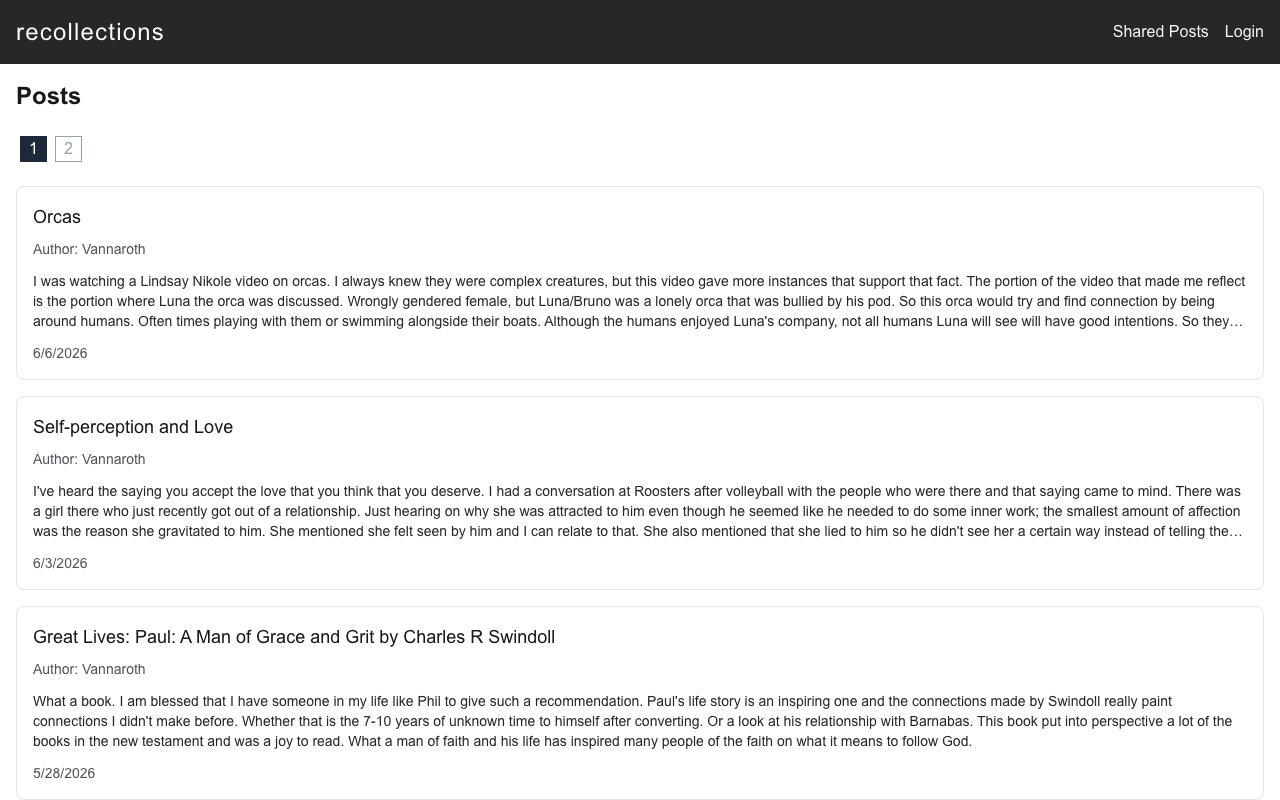
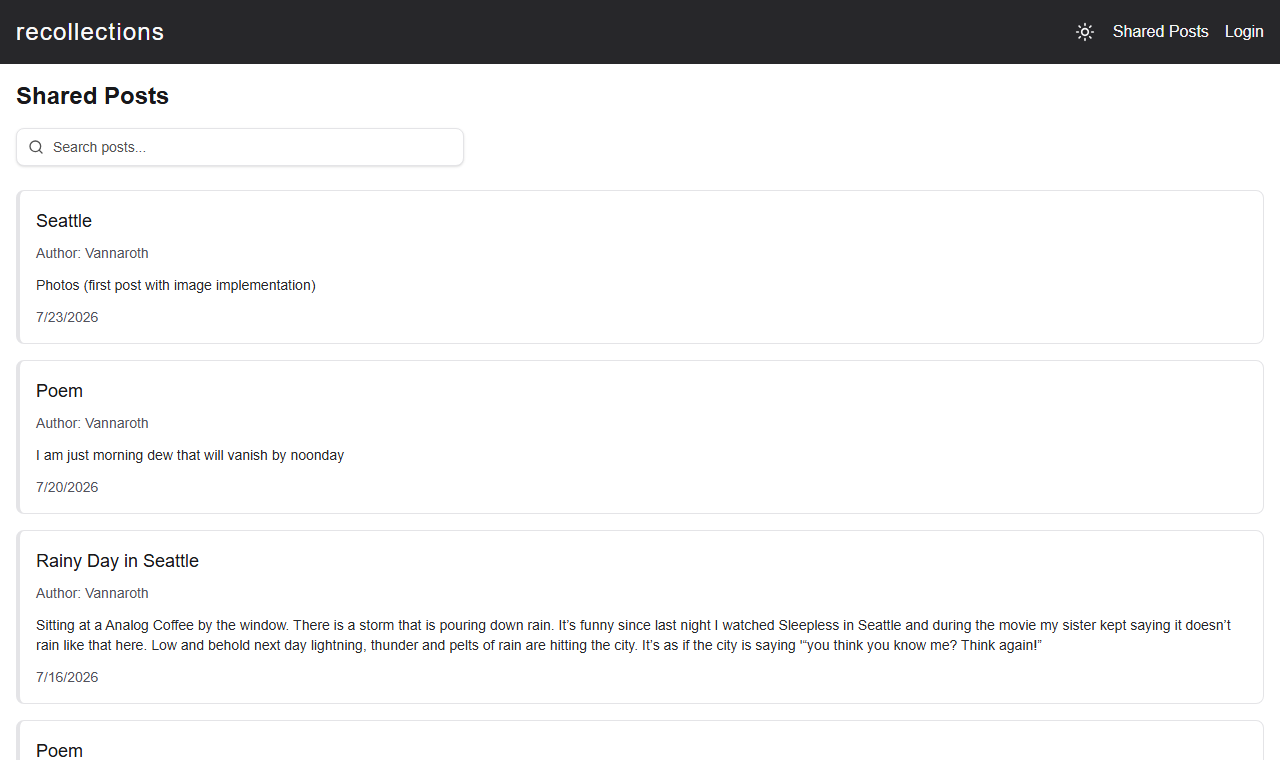
Readme update

Changed region(s): [[0.0, 0.4842, 1.0, 1.0], [0.0, 0.2421, 0.9688, 0.4539], [0.0, 0.0303, 1.0, 0.2118]]

diff --git a/README.md b/README.md
@@ -4,19 +4,24 @@ A personal blog and reflection journal I built while between jobs — partly to 
 
 Posts can be **public** (shared on the blog) or **private** (visible only to the author), so the same app works as both a public blog and a personal journal.
 
-Posts feedPost detail page
+![Posts feed](docs/screenshots/posts-list.png)
 
-**Live site:** [blog-kappa-beryl-77.vercel.app](https://blog-kappa-beryl-77.vercel.app)
+![Post detail page](docs/screenshots/post-detail.png)
+
+**Live site:** [vann-recollections.vercel.app](https://vann-recollections.vercel.app/)
 
 ## Features
 
 - **Email/password auth** via Neon Auth, with session-aware server components
 - **Post CRUD** — create, edit, and delete posts, with author-only authorization enforced server-side
 - **Public/private access levels** — private posts are filtered out of listings and fail closed on direct URL access
-- **Pagination** on both the public feed and the personal dashboard
+- **Rich text editing** with Tiptap, including inline image uploads stored on Vercel Blob
+- **Full-text search** across post titles and bodies, backed by Postgres (`tsvector` + GIN index, title-weighted ranking) rather than a naive substring scan
+- **Pagination** on both the public feed and the personal dashboard, including search results
 - **Previous/next post navigation** ordered by post date
-- **Form validation** shared between client and server with Zod schemas and React Hook Form
-- **Dark mode** styling throughout with Tailwind CSS
+- **Responsive navigation** — collapses to a mobile hamburger menu that auto-closes on outside touch/click
+- **Dark mode toggle** in the header, synced with OS preference on first visit and persisted across sessions
+- **Form validation** with shared Zod schemas, checked server-side in Server Actions
 - **Unit and component tests** with Jest and React Testing Library
 
 
@@ -27,10 +32,12 @@ Posts feedPost detail page
 | Layer      | Choice                                                                                 |
 | ---------- | -------------------------------------------------------------------------------------- |
 | Framework  | [Next.js 16](https://nextjs.org) (App Router, React Server Components, Server Actions) |
-| UI         | React 19, Tailwind CSS 4, Heroicons                                                    |
+| UI         | React 19, Tailwind CSS 4, Radix UI & Floating UI (editor dropdowns/popovers/tooltips)  |
 | Database   | [Neon](https://neon.tech) serverless Postgres, queried with tagged-template SQL        |
+| Search     | Postgres full-text search (`tsvector`/`tsquery`, GIN index, trigger-maintained)        |
+| Storage    | Vercel Blob (post images)                                                              |
 | Auth       | Neon Auth (`@neondatabase/auth`)                                                       |
-| Validation | Zod 4 + React Hook Form                                                                |
+| Validation | Zod 4 schemas, checked server-side inside Server Actions                              |
 | Testing    | Jest 30, React Testing Library                                                         |
 | Hosting    | Vercel, with Analytics and Speed Insights                                              |
 
@@ -42,9 +49,13 @@ Posts feedPost detail page
 A few decisions I made deliberately:
 
 - **Server-first data access.** All queries and mutations live in `lib/` and are marked `server-only`, so database code can never leak into a client bundle. Pages are async server components that fetch directly.
-- **Server Actions over API routes.** Mutations (`lib/posts/actions.ts`) are Server Actions that validate input with Zod, check the session, verify authorship, and then call the data layer — keeping authorization next to the mutation it protects.
+- **Server Actions over API routes, with two necessary exceptions.** Mutations (`lib/posts/actions.ts`) are Server Actions that validate input with Zod, check the session, verify authorship, and then call the data layer — keeping authorization next to the mutation it protects. Route Handlers exist only where a real URL is unavoidable: `/api/upload` (Tiptap's image upload needs a fetchable endpoint) and `/api/file` (serving private post images requires an access check before streaming the blob).
 - **Authorization at every entry point.** Listing queries filter by access level in SQL; the post detail and edit pages re-check access/authorship server-side, so private posts aren't reachable by URL guessing.
 - **Plain SQL over an ORM.** Queries use Neon's tagged-template driver directly. For an app this size I wanted to stay close to the SQL rather than learn an ORM's abstraction over it.
+- **Search and pagination live in the URL, not client state.** Both drive the same server-rendered query (`?q=`, `?page=`), so there's one data-fetching path, results are bookmarkable/shareable, and there's no separate client-side fetch/API route to keep in sync with the server-rendered list.
+- **Search runs in Postgres, not the app.** A trigger-maintained `tsvector` column plus a GIN index (`sql/add_search_vector.sql`) means matching is an indexed lookup, not an app-side scan that re-parses every post's content on every keystroke.
+
+![Full-text search](docs/screenshots/search.png)
 
 
 
@@ -53,9 +64,12 @@ A few decisions I made deliberately:
 ```
 app/          Routes (App Router): posts feed, post detail, create/edit, auth, dashboard
 ui/           Presentational components (PostCard, forms, header, ...)
+components/   Tiptap rich-text editor (vendored template) and landing-page effects
+hooks/        Shared client hooks (dark mode, throttling, editor helpers, ...)
 lib/          Data layer: SQL queries, server actions, auth helpers, db client
 schemas/      Zod schemas shared by forms and server actions
 type/         TypeScript row/input types for posts
+sql/          One-off SQL migrations run manually against Neon (no ORM/migration tool)
 __tests__/    Jest unit and component tests
 ```
 
@@ -69,16 +83,15 @@ You'll need Node 20+ and a [Neon](https://neon.tech) project with Neon Auth enab
   ```bash
    npm install
   ```
-2. Create a `.env` file with your Neon credentials (the connection string and Neon Auth keys from the Neon console):
+2. Create a `.env.local` file with your Neon credentials (the connection string and Neon Auth keys from the Neon console):
   ```bash
    DATABASE_URL=...
-   NEXT_PUBLIC_STACK_PROJECT_ID=...
-   NEXT_PUBLIC_STACK_PUBLISHABLE_CLIENT_KEY=...
-   STACK_SECRET_SERVER_KEY=...
    NEON_AUTH_BASE_URL=...
    NEON_AUTH_COOKIE_SECRET=...
+   BLOB_READ_WRITE_TOKEN=...
   ```
-3. Start the dev server:
+3. Run the SQL migrations in `sql/` against your database (via the Neon console's SQL editor or `psql`) to set up full-text search.
+4. Start the dev server:
   ```bash
    npm run dev
   ```
@@ -98,15 +111,19 @@ npm run test:coverage # with coverage report
 
 ## Roadmap
 
-**Now — rich text editing** *(in progress)*
+**Done — rich text & media**
 
 - [x] Tiptap editor in the post form, replacing the plain textarea
-- [x] Sanitize stored HTML and render it styled on the post detail page
+- [x] Store post content as structured Tiptap JSON and render it back through the same editor, read-only
+- [x] Image uploads in the editor, stored on Vercel Blob
 
-**Next — discovery**
+**Done — discovery**
+
+- [x] Full-text search across posts (Postgres FTS: `tsvector` + GIN index, title/body weighted ranking)
+
+**Next**
 
 - [ ] Tags on posts — create, and filter the feed by tag
-- [ ] Full-text search across posts (Postgres FTS)
 - [ ] Public homepage surfacing recent posts
 
 **Later — reflection and reach**
